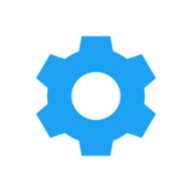
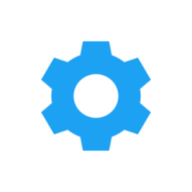
Version 1.4 - Add Delete Function (#4)
* Add Version to Exported Files

* Update CSS

* Add Delete Function

* Add Action Menu

* Update Shortcut Icons

* Bump to v1.4

Changed region(s): [[0.1875, 0.1562, 0.8125, 0.8438], [0.3438, 0.375, 0.6562, 0.625]]

diff --git a/history.html b/history.html
@@ -58,10 +58,21 @@
                 <tr class="table-active">
                   <td class="text-center" colspan="2">{{ formatDate(expenses[0].time) }}</td>
                 </tr>
-                <tr v-for="expense in expenses">
-                  <td>{{ expense.detail }}</td>
-                  <td class="text-end">{{ formatAmount(expense.amount) }}</td>
-                </tr>
+                <template v-for="expense in expenses">
+                  <tr v-on:click="toggleActions(expense.id)" v-bind:key="expense.id">
+                    <td>{{ expense.detail }}</td>
+                    <td class="text-end">{{ formatAmount(expense.amount) }}</td>
+                  </tr>
+                  <tr v-bind:id="'actions-'+expense.id" class="d-none" v-bind:key="expense.id">
+                    <td colspan="2">
+                      <ul class="list-inline">
+                        <li class="list-inline-item">
+                          <a href="javascript:void(0)" v-on:click="deleteExpense(expense.id)">Delete</a>
+                        </li>
+                      </ul>
+                    </td>
+                  </tr>
+                </template>
                 <tr class="border-top">
                   <td class="text-end" colspan="2"><strong>{{ calculateTotal(expenses) }}</strong></td>
                 </tr>

diff --git a/js/history.js b/js/history.js
@@ -44,6 +44,22 @@ const History = {
         total += parseInt(expense.amount)
       })
       return this.formatAmount(total)
+    },
+    toggleActions(id) {
+      document.querySelector("#actions-"+id).classList.toggle("d-none")
+    },
+    deleteExpense(id) {
+      Swal.fire({
+        title: 'Confirm',
+        text: "Do you want to delete this entry?",
+        reverseButtons: true,
+        showCancelButton: true,
+        confirmButtonText: 'Delete'
+      }).then((result) => {
+        if (result.isConfirmed) {
+          db.expenses.delete(id).then(() => this.filter())
+        }
+      })
     }
   }
 };

diff --git a/css/xpense.css b/css/xpense.css
@@ -13,6 +13,7 @@ a.active {
 
 a {
   color: #1b95e0;
+  text-decoration: none;
 }
 
 .btn-primary {
@@ -47,6 +48,7 @@ input#restore-input {
 
 .swal2-title {
   font-size: 1.2em;
+  margin-bottom: 20px;
 }
 
 .swal2-content {
@@ -55,8 +57,15 @@ input#restore-input {
   font-size: 1em;
 }
 
-.swal2-styled.swal2-confirm {
+.swal2-actions {
+  padding: 0 0.5em;
+  font-size: 1em;
+}
+
+.swal2-styled.swal2-confirm,
+.swal2-styled.swal2-cancel {
   font-size: 1em;
   color: #167c80;
   padding: 0;
+  padding-left: 20px;
 }

diff --git a/js/settings.js b/js/settings.js
@@ -29,7 +29,7 @@ const Settings = {
       db.open().then(() => {
         exportToJsonString(db.backendDB(), (error, jsonString) => {
           if (!error) {
-            download(jsonString, "xPense.json", "application/json");
+            download(jsonString, "xPense_v"+ (new Date).getTime() +".json", "application/json");
           }
         });
       })

diff --git a/service-worker.js b/service-worker.js
@@ -1,4 +1,4 @@
-const CACHE_NAME = 'xPense-v1.3';
+const CACHE_NAME = 'xPense-v1.4';
 const urlsToCache = [
   '/',
   '/history',
